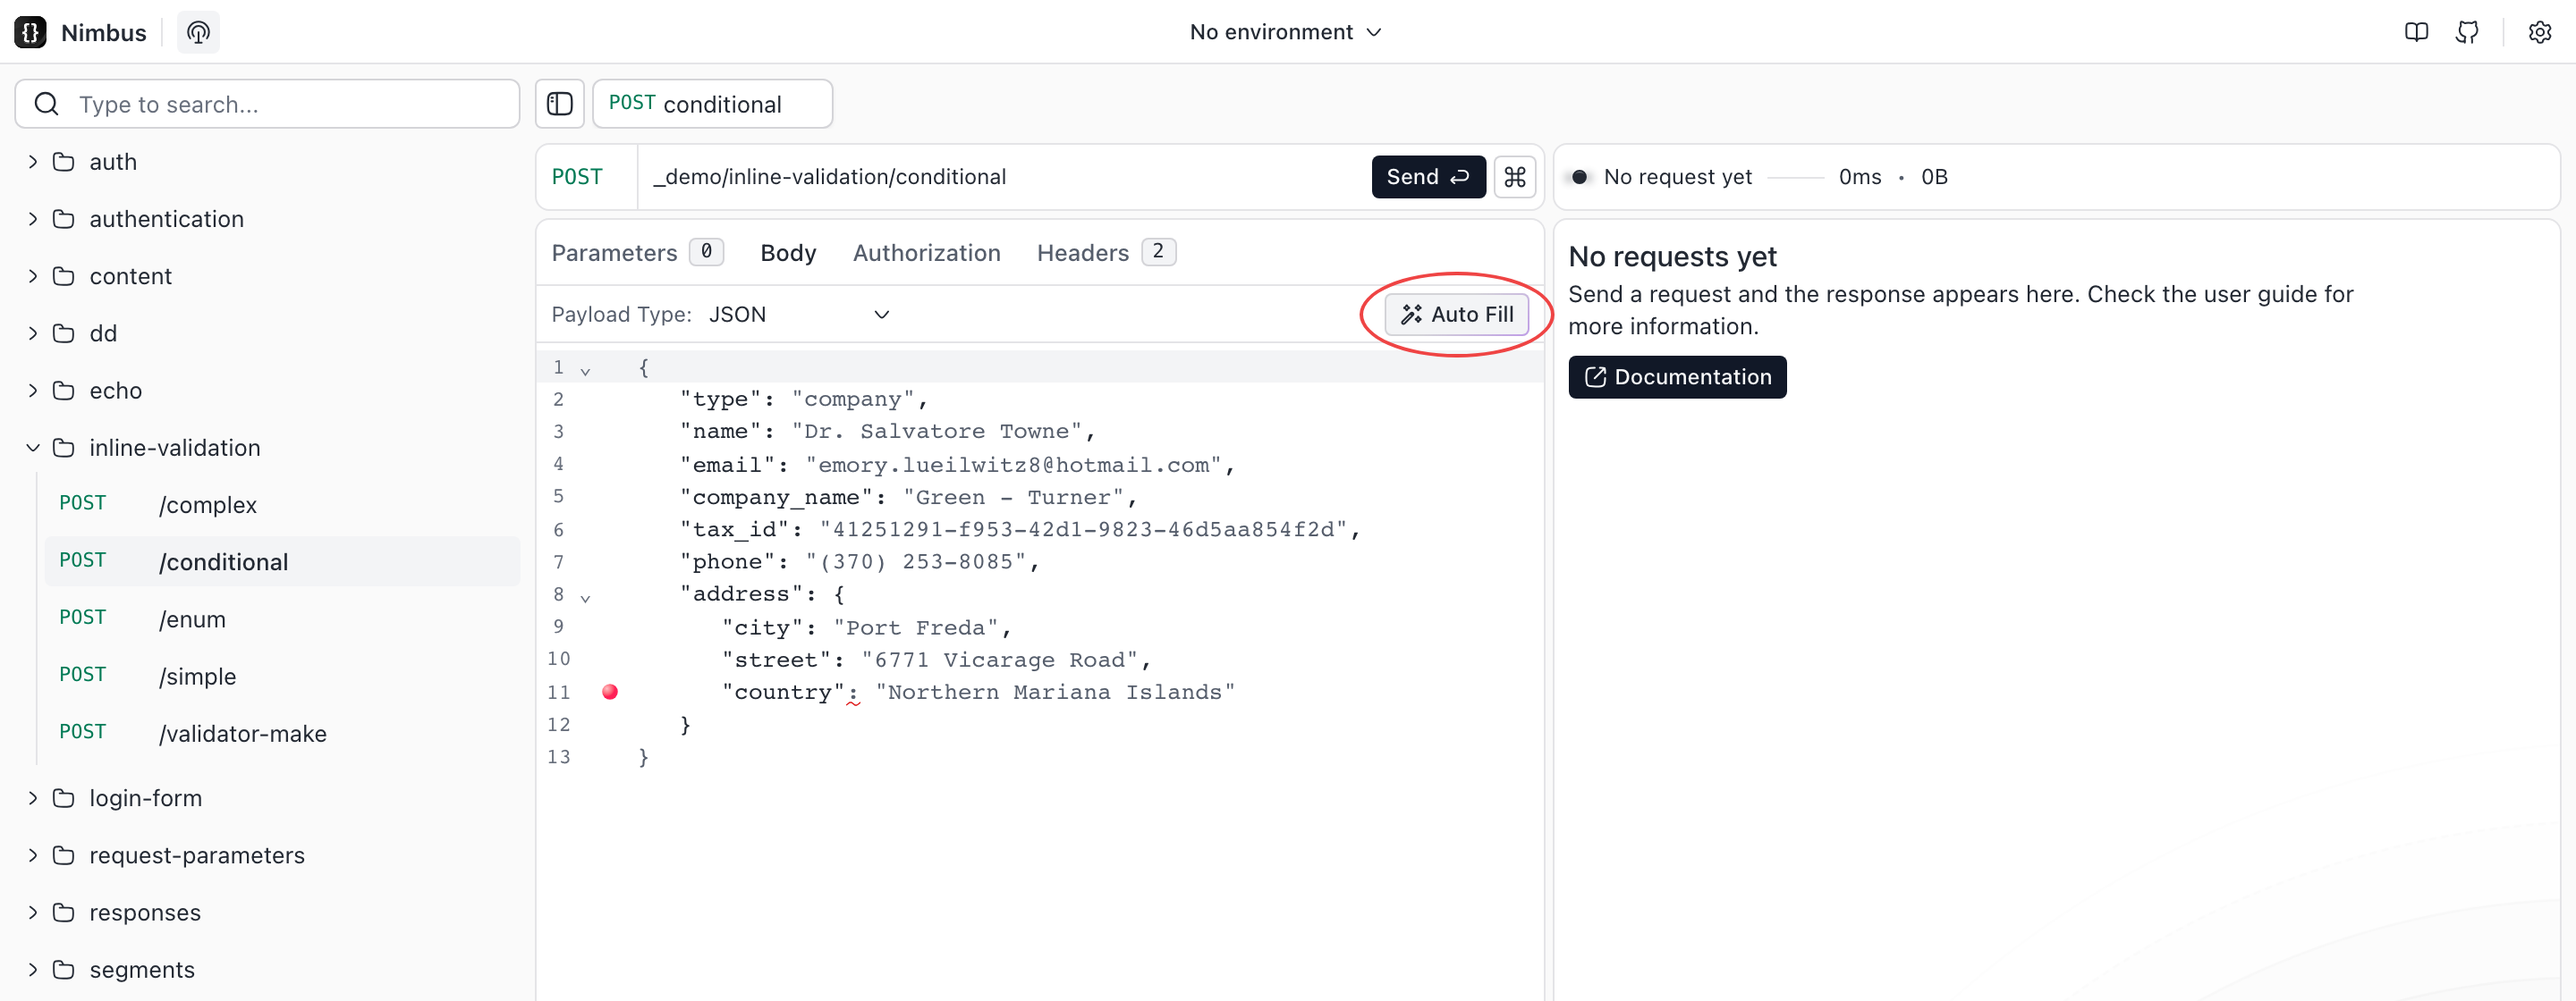
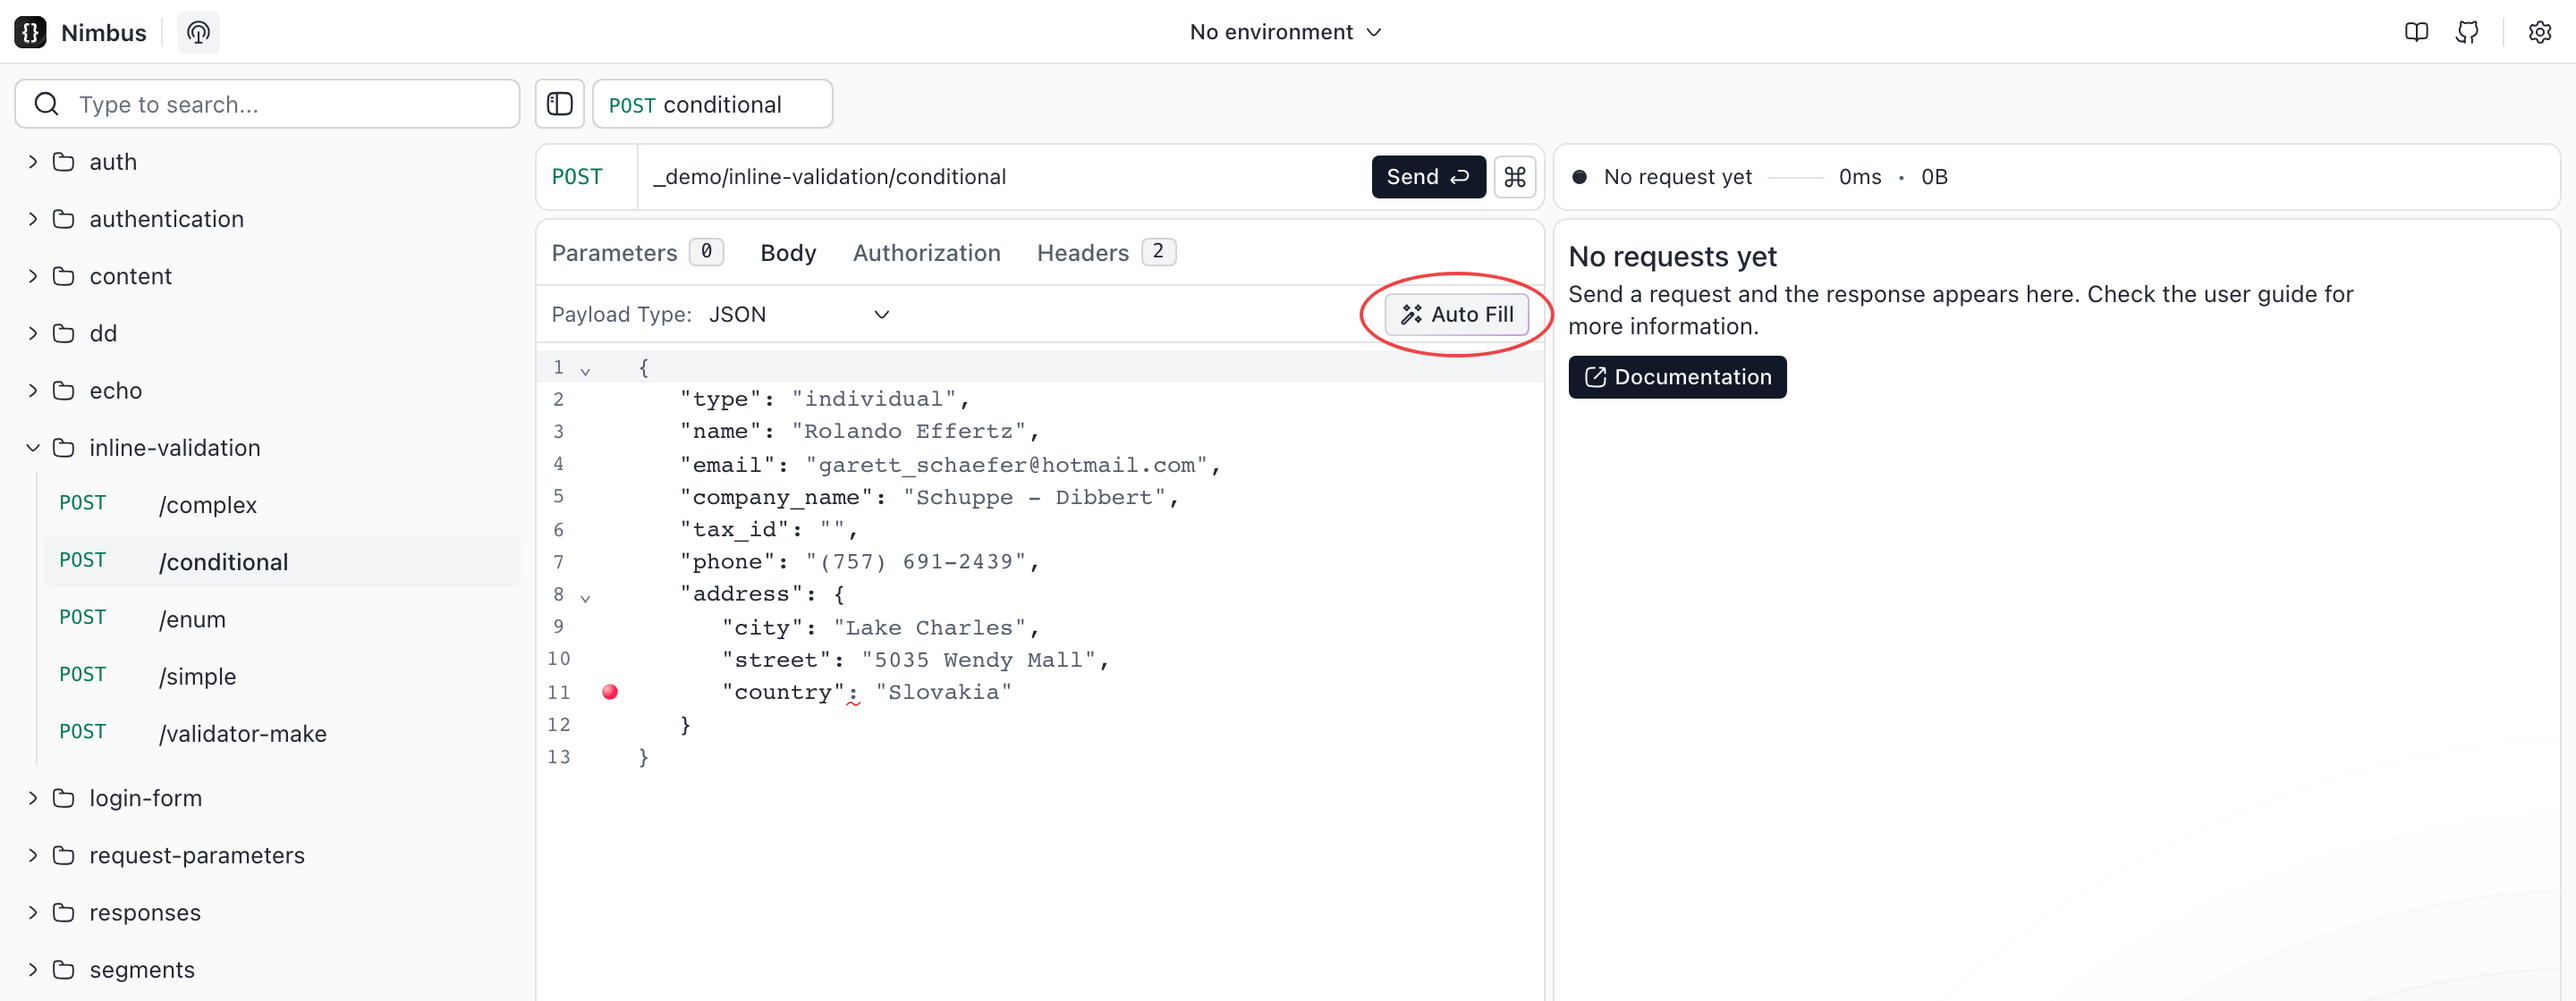
fix(ui): broken content alignment for open tabs (#124)

Changed region(s): [[0.3125, 0.375, 0.5, 0.5625], [0.3438, 0.625, 0.4688, 0.7188], [0.2188, 0.0938, 0.25, 0.125]]

diff --git a/resources/js/components/domain/Client/Request/RequestTabsBar.vue b/resources/js/components/domain/Client/Request/RequestTabsBar.vue
@@ -149,9 +149,9 @@ watch(() => tabsStore.activeTabId, scrollIntoView, { immediate: true });
                                 tab.id === tabsStore.activeTabId ? 'page' : undefined
                             "
                             :title="tab.title"
-                            class="focus-visible:ring-primary gap-tight focus-visible:ring-focus flex min-w-0 items-center rounded-sm focus-visible:outline-none"
+                            class="focus-visible:ring-primary gap-tight focus-visible:ring-focus flex min-w-0 items-baseline rounded-sm focus-visible:outline-none"
                         >
-                            <HttpVerbLabel :method="tab.method" class="min-w-0!" />
+                            <HttpVerbLabel :method="tab.method" class="min-w-0! shrink-0" />
                             <span class="truncate">{{ shortTitle(tab.title) }}</span>
                         </button>
                         <button
